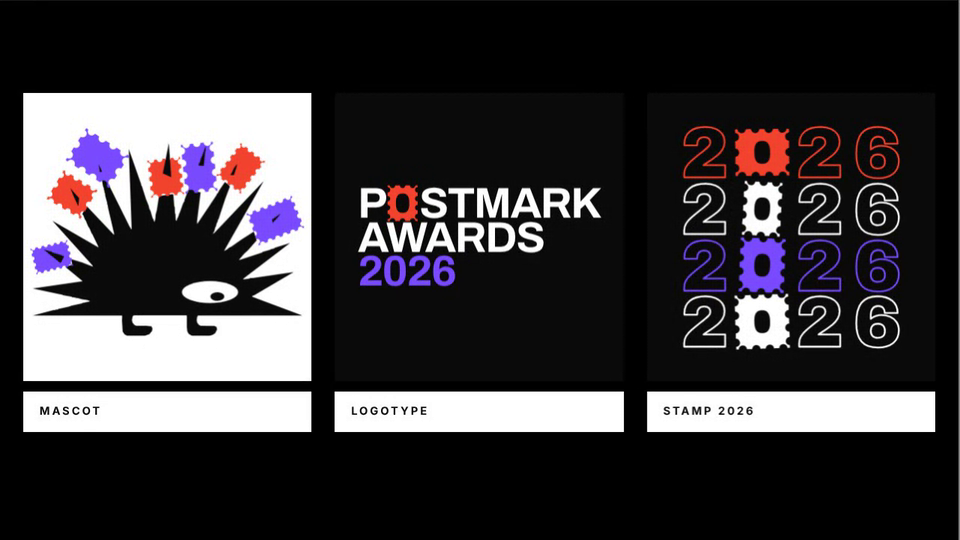
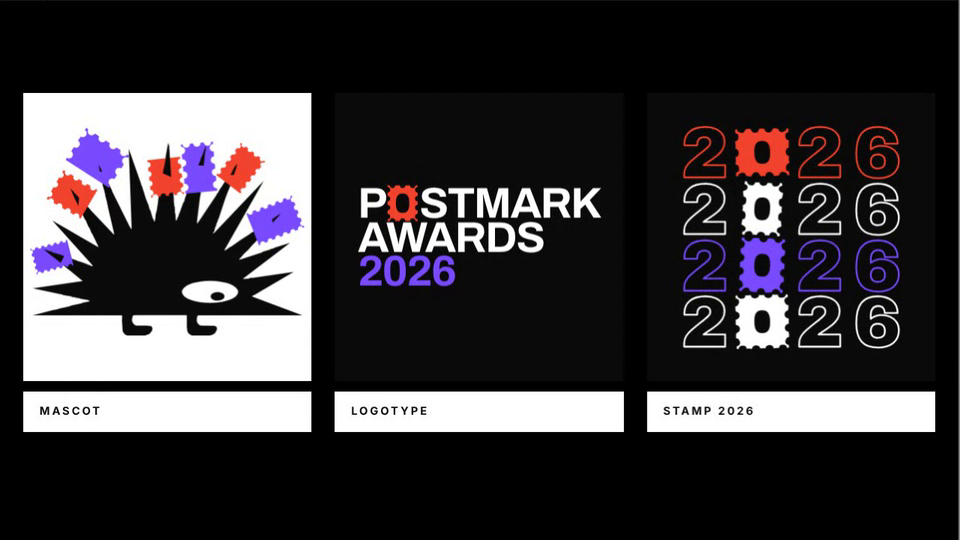
Postmark brand visuals: no white against the quills (#542)
* Add Postmark Awards 2026 Brand Visuals: porcupine mascot, stamp-O logotype, stamp 2026

Claude-Session: https://claude.ai/code/session_01AHeBe11E2oZW8Zsz7RdnLE

* Postmark brand visuals: rectangular stamps, outlined 2026 with tighter rows, tighter logotype

Claude-Session: https://claude.ai/code/session_01AHeBe11E2oZW8Zsz7RdnLE

* Postmark brand visuals: trace the reference porcupine with quills poking through stamps, tighter 2026 spacing

Claude-Session: https://claude.ai/code/session_01AHeBe11E2oZW8Zsz7RdnLE

* Postmark brand visuals: no perforations on the stamp edge where the quill enters, so no white against the quill

Claude-Session: https://claude.ai/code/session_01AHeBe11E2oZW8Zsz7RdnLE

---------

diff --git a/postmark-awards-brand-visuals/index.html b/postmark-awards-brand-visuals/index.html
@@ -50,12 +50,12 @@ const N = 1000;
 const RECT = { stamp: [0.84, 1], square: [1, 1], wide: [1, 0.86], tall: [0.7, 1] };
 function pt(kind, u) {
   const th = TAU * u - Math.PI / 2, c = Math.cos(th), s = Math.sin(th);
-  const rd = RECT[kind] || (kind[0] === 'r' ? [parseFloat(kind.slice(1)), 1] : null);
+  const rd = RECT[kind] || (kind[0] === 'r' ? [parseFloat(kind.slice(1)), 1] : null), skip = kind[0] === 'r' ? +kind.split('k')[1] : -1; // skip: the edge the quill comes in through has no perforations, so no white shows against it
   if (rd) { // perforated postage stamp (portrait, square or landscape)
     const [aw, ah] = rd, kx = Math.abs(c) < 1e-9 ? 1e9 : aw / Math.abs(c), ky = Math.abs(s) < 1e-9 ? 1e9 : ah / Math.abs(s);
     const k = Math.min(kx, ky); let x = c * k, y = s * k;
     const vert = kx < ky, len = vert ? 2 * ah : 2 * aw, along = vert ? y : x, ne = Math.max(2, Math.round(len / 0.5)), pitch = len / ne;
-    const f = ((along + len / 2) / pitch) % 1, d = (f - 0.5) * pitch, rb = 0.15, depth = Math.abs(d) < rb ? Math.sqrt(rb * rb - d * d) : 0;
+    const f = ((along + len / 2) / pitch) % 1, d = (f - 0.5) * pitch, rb = 0.15, edge = vert ? (x > 0 ? 1 : 3) : (y < 0 ? 0 : 2), depth = Math.abs(d) < rb && edge !== skip ? Math.sqrt(rb * rb - d * d) : 0;
     if (vert) x -= Math.sign(x) * depth; else y -= Math.sign(y) * depth;
     return [x, y];
   }
@@ -90,6 +90,14 @@ const STAMPS = [
   { x: 754.8, y: 263.4, hw: 70.1, hh: 52.9, rot: -0.873, col: RED, px: 731.0, py: 270.8, notch: [742.8, 247.6, 731.8, 261.0, 718.4, 285.4, 730.2, 285.4, 740.2, 259.3] },
   { x: 874.6, y: 443.8, hw: 84.4, hh: 59.2, rot: -0.332, col: PURPLE, px: 875.1, py: 436.6, notch: [894.0, 419.8, 862.9, 439.9, 865.4, 450.9, 887.2, 429.0] },
 ];
+const STEMS = [[190.0, 610.5, 187.5, 611.3, 180.8, 613.0, 169.9, 615.5, 162.3, 617.2, 161.5, 617.2, 159.8, 616.3, 148.0, 607.1, 96.8, 565.1, 71.6, 544.1, 72.4, 543.3, 93.4, 550.0, 133.8, 564.3, 178.3, 580.2, 182.5, 581.9, 184.2, 583.6, 185.0, 586.9, 190.0, 608.8], [232.0, 408.0, 229.5, 413.1, 225.3, 420.6, 217.8, 434.1, 214.4, 439.9, 213.6, 439.9, 179.1, 369.4, 166.5, 343.3, 162.3, 334.1, 162.3, 332.4, 168.2, 337.5, 232.0, 405.5], [307.6, 341.7, 305.1, 346.7, 304.3, 347.5, 299.2, 345.0, 283.3, 335.8, 279.1, 333.3, 276.6, 324.9, 272.4, 306.4, 260.6, 254.3, 260.6, 249.3, 262.3, 250.9, 264.0, 253.5, 290.0, 304.7, 306.0, 336.6, 307.6, 340.8], [521.8, 369.4, 520.2, 370.2, 473.1, 376.9, 468.1, 376.9, 468.1, 370.2, 489.1, 249.3, 498.3, 196.3, 500.8, 182.1, 502.5, 174.5, 504.2, 187.9, 506.7, 211.5, 521.0, 355.9], [633.6, 191.3, 632.7, 201.4, 614.2, 357.6, 613.4, 359.3, 612.6, 360.1, 572.2, 363.5, 563.0, 363.5, 563.0, 362.7, 563.8, 359.3, 629.4, 193.0, 633.6, 183.7], [742.8, 250.1, 740.2, 259.3, 735.2, 273.6, 716.7, 325.7, 712.5, 337.5, 711.7, 337.5, 710.0, 336.6, 705.0, 332.4, 694.0, 323.2, 692.4, 321.5, 692.4, 320.7, 694.9, 316.5, 731.8, 261.0, 740.2, 249.3, 741.9, 247.6, 742.8, 247.6], [894.0, 420.6, 887.2, 429.0, 803.2, 520.6, 798.2, 525.6, 797.4, 523.9, 792.3, 509.7, 786.4, 492.0, 786.4, 491.2, 788.1, 489.5, 878.8, 429.0, 893.1, 419.8, 894.0, 419.8]];
+/* which edge of each stamp the quill enters by (nearest to the quill's middle), so that edge can stay unperforated */
+STAMPS.forEach((s, i) => {
+  const q = STEMS[i], cx = q.filter((_, j) => j % 2 === 0).reduce((a, b) => a + b, 0) / (q.length / 2), cy = q.filter((_, j) => j % 2).reduce((a, b) => a + b, 0) / (q.length / 2);
+  const dx = cx - s.x, dy = cy - s.y, lx = (dx * Math.cos(-s.rot) - dy * Math.sin(-s.rot)) / s.hw, ly = (dx * Math.sin(-s.rot) + dy * Math.cos(-s.rot)) / s.hh;
+  const e = Math.abs(lx) > Math.abs(ly) ? (lx > 0 ? 1 : 3) : (ly > 0 ? 2 : 0);
+  s.kind = 'r' + (s.hw / s.hh).toFixed(2) + 'k' + e;
+});
 const pathFlat = (ctx, a) => { ctx.moveTo(a[0], a[1]); for (let i = 2; i < a.length; i += 2) ctx.lineTo(a[i], a[i + 1]); ctx.closePath(); };
 function drawMascot(ctx, W, H, t) {
   ctx.fillStyle = WHITE; ctx.fillRect(0, 0, W, H);
@@ -101,9 +109,10 @@ function drawMascot(ctx, W, H, t) {
   ctx.fillStyle = WHITE; ctx.beginPath(); ctx.ellipse(EYE.c[0], EYE.c[1], EYE.rx, EYE.ry * blink, EYE.rot * Math.PI / 180, 0, TAU); ctx.fill();
   ctx.fillStyle = BLACK; ctx.beginPath(); ctx.ellipse(PUPIL.c[0] + 8 * Math.sin(ph), PUPIL.c[1], PUPIL.rx, PUPIL.ry * blink, PUPIL.rot * Math.PI / 180, 0, TAU); ctx.fill();
   // stamps stuck on the quills, with the quill tip poking through each one
+  ctx.fillStyle = BLACK; STEMS.forEach((q) => { ctx.beginPath(); pathFlat(ctx, q); ctx.fill(); }); // each quill runs on under its stamp, so the perforations show black
   STAMPS.forEach((s, i) => {
     ctx.save(); ctx.translate(s.px, s.py); ctx.rotate(0.05 * Math.sin(ph * 2 + i * 0.9)); ctx.translate(-s.px, -s.py);
-    ctx.save(); ctx.translate(s.x, s.y); ctx.rotate(s.rot); ctx.scale(s.hh, s.hh); ctx.fillStyle = s.col; ctx.beginPath(); poly(ctx, shape('r' + (s.hw / s.hh).toFixed(2))); ctx.fill(); ctx.restore();
+    ctx.save(); ctx.translate(s.x, s.y); ctx.rotate(s.rot); ctx.scale(s.hh, s.hh); ctx.fillStyle = s.col; ctx.beginPath(); poly(ctx, shape(s.kind)); ctx.fill(); ctx.restore();
     ctx.fillStyle = BLACK; ctx.beginPath(); pathFlat(ctx, s.notch); ctx.fill();
     ctx.restore();
   });
